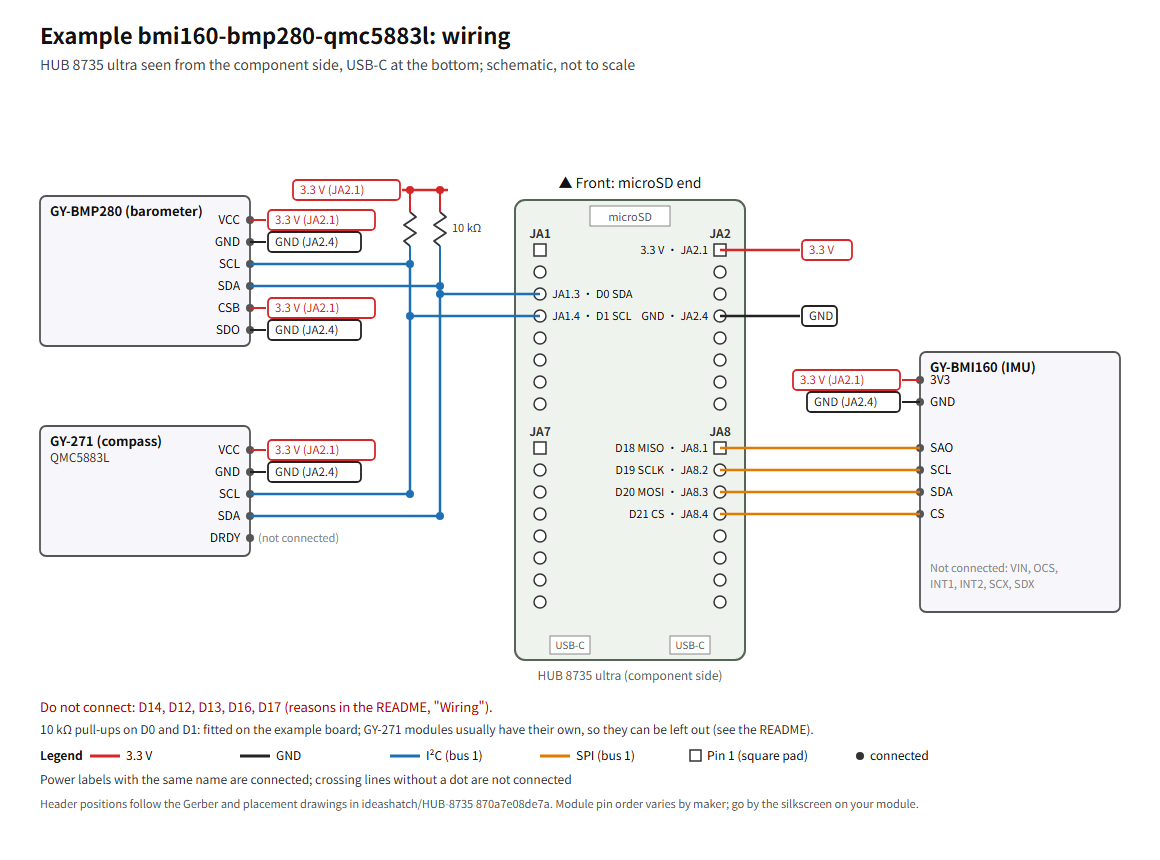
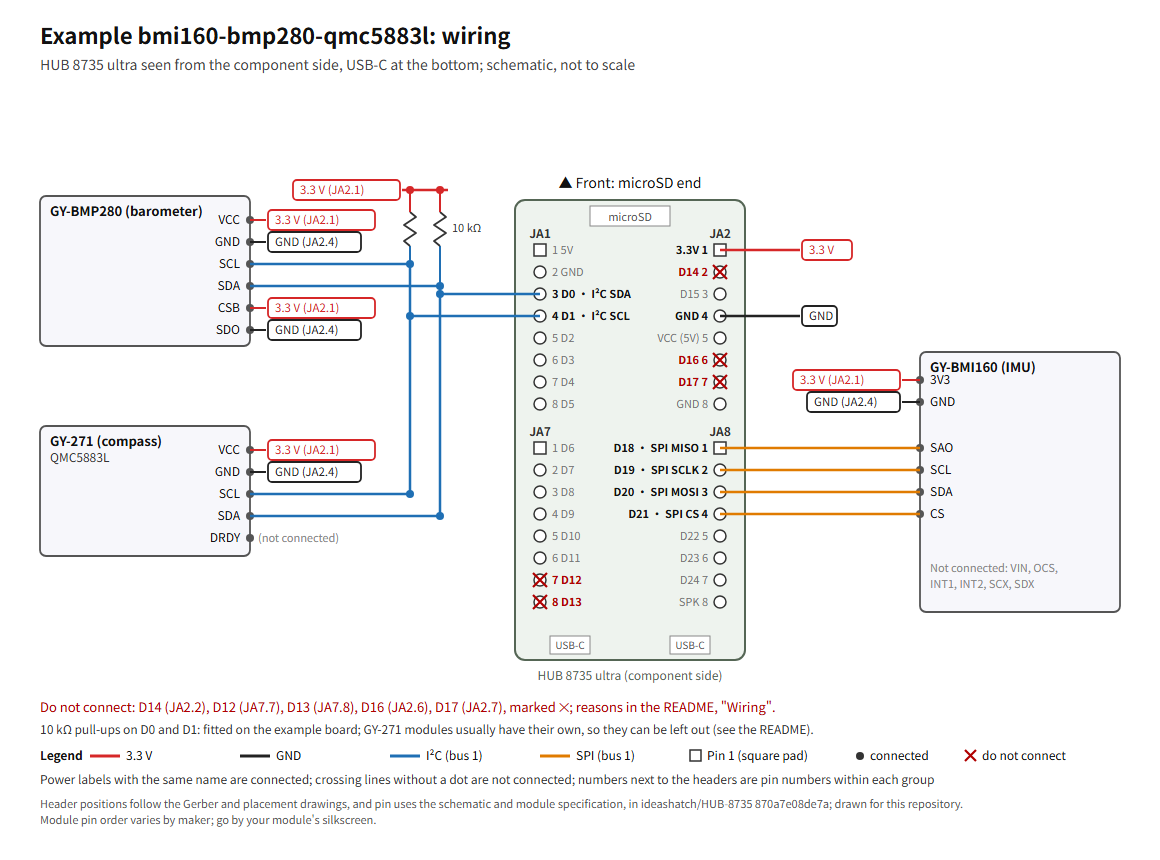
examples: mark the pins not to connect in the bmi160-bmp280-qmc5883l wiring
The wiring diagram now labels every header pin and marks D14 (JA2.2),
D12 (JA7.7), D13 (JA7.8), D16 (JA2.6) and D17 (JA2.7) with a cross,
matching the board header figure. The README points to that figure for
the full pin map, gives the positions of the pins not to connect, and
says where a 5 V BEC goes, the supply range in the module
specification, and why USB must stay unplugged while the power header
is powered. Both languages.

diff --git a/examples/bmi160-bmp280-qmc5883l/README.en.md b/examples/bmi160-bmp280-qmc5883l/README.en.md
@@ -21,7 +21,7 @@ The orientations match how the example board is placed: component side up, with 
 
 ## Wiring
 
-Header positions follow the Gerber and placement drawings the vendor published (`HUB 8735 ultra toolkit/Hardware/HUB 8735 ultra PCB Gerber File.7z` and `HUB 8735 ultra toolkit/Hardware/HUB 8735 ultra_PCB Placement_Top.pdf` in ideashatch/HUB-8735 `870a7e08de7a`): seen from the component side with the USB-C connectors at the bottom, there is one row on each side, each row has an upper and a lower group of 8 pins. The left row's upper group is JA1 and its lower group JA7; the right row's upper group is JA2 and its lower group JA8. Pin 1 of each group is the square pad at the microSD end, and the pin numbers increase towards the USB-C end. For the full header map (which D number each pin is, power and ground), see the [schematic](https://github.com/ideashatch/HUB-8735/blob/870a7e08de7a/HUB%208735%20ultra%20toolkit/Hardware/HUB%208735%20ultra%20Schematic.pdf) and the [module specification](https://github.com/ideashatch/HUB-8735/blob/870a7e08de7a/HUB%208735%20ultra%20toolkit/Hardware/HUB%208735%20ultra%20Module%20Specification_V01_20240508.pdf) the vendor published; both are marked CONFIDENTIAL, so nothing is quoted from them here.
+Header positions follow the Gerber and placement drawings the vendor published (`HUB 8735 ultra toolkit/Hardware/HUB 8735 ultra PCB Gerber File.7z` and `HUB 8735 ultra toolkit/Hardware/HUB 8735 ultra_PCB Placement_Top.pdf` in ideashatch/HUB-8735 `870a7e08de7a`): seen from the component side with the USB-C connectors at the bottom, there is one row on each side, each row has an upper and a lower group of 8 pins. The left row's upper group is JA1 and its lower group JA7; the right row's upper group is JA2 and its lower group JA8. Pin 1 of each group is the square pad at the microSD end, and the pin numbers increase towards the USB-C end. For the D number and use of every header pin, see this repository's [header figure](../../README.en.md#board-headers), compiled from the vendor's published [schematic](https://github.com/ideashatch/HUB-8735/blob/870a7e08de7a/HUB%208735%20ultra%20toolkit/Hardware/HUB%208735%20ultra%20Schematic.pdf) and [module specification](https://github.com/ideashatch/HUB-8735/blob/870a7e08de7a/HUB%208735%20ultra%20toolkit/Hardware/HUB%208735%20ultra%20Module%20Specification_V01_20240508.pdf).
 
 ![Wiring diagram: where the three modules connect on the HUB 8735 ultra headers](wiring.en.png)
 
@@ -53,8 +53,8 @@ The table below is how the example board is wired. Wired this way, a build of HA
 - Connect every module to 3.3 V, never to 5 V: the RTL8735B's I/O is 3.3 V. The GY-BMI160 is powered from its 3V3 pin, bypassing the regulator on the module.
 - You can also find 3.3 V and GND from the silkscreen next to the board's header pins.
 - I²C pull-ups: the example board has a 10 kΩ resistor from each of D0 and D1 to 3.3 V. GY-271 modules usually have their own pull-ups (inferred from the module sellers' specifications, not measured), so these two can be left out; if you later add other I²C modules with their own pull-ups, do not add them, or the total pull-up gets too strong.
-- Pins not to connect: D14, D12, D13, D16, D17. The level of D14 at reset decides whether the chip enters download mode, and shorting it to 3.3 V before a reset enters download mode (pages 17–18 of the vendor's Chinese user guide, `HUB 8735 ultra toolkit/Software/HUB 8735 ultra 開發板【Arduino 使用說明】_20240508.pdf` in the same commit); D12 is the upgrade button, D13 drives the white fill light on the board in our tests, and D16 and D17 are the LOG UART (see [Board types](https://github.com/rainwu0/ArduPilot-RTL8735B/blob/v0.1.1/libraries/AP_HAL_RTL8735B/README.en.md#board-types) in the HAL repository README).
-- For tests on a desk, USB power is enough. To run from a battery, go through a 5 V BEC to the board's 5 V input; for the pin and the allowed voltage, see the vendor's module specification (`HUB 8735 ultra toolkit/Hardware/HUB 8735 ultra Module Specification_V01_20240508.pdf` in the same commit). **While the power header is powered, do not plug in USB**; to use USB, first remove power from the header.
+- Pins not to connect: D14 (JA2.2), D12 (JA7.7), D13 (JA7.8), D16 (JA2.6), D17 (JA2.7), marked ✕ in the wiring diagram. The level of D14 at reset decides whether the chip enters download mode, and shorting it to the 3.3 V next to it (JA2.1) before a reset enters download mode (pages 17–18 of the vendor's Chinese user guide, `HUB 8735 ultra toolkit/Software/HUB 8735 ultra 開發板【Arduino 使用說明】_20240508.pdf` in the same commit), so take care not to bridge them when soldering; D12 is the upgrade button, D13 drives the white fill light on the board in our tests, and D16 and D17 are the LOG UART (see [Board types](https://github.com/rainwu0/ArduPilot-RTL8735B/blob/v0.1.1/libraries/AP_HAL_RTL8735B/README.en.md#board-types) in the HAL repository README).
+- For tests on a desk, USB power is enough. To run from a battery, go through a 5 V BEC to JA1.1 (5V) and JA1.2 (GND); page 4 of the vendor's module specification lists a supply voltage of 4.75–5.25 V. **While the power header is powered, do not plug in USB**: per the vendor's schematic, the 5 V of both USB-C connectors goes straight to the 5V header pin with nothing in between; to use USB, first remove power from the header.
 - Keep the compass away from power wires, the battery and magnetic parts.
 
 ## Build

diff --git a/examples/bmi160-bmp280-qmc5883l/README.md b/examples/bmi160-bmp280-qmc5883l/README.md
@@ -21,7 +21,7 @@ English: [README.en.md](README.en.md)
 
 ## 接線
 
-排針的位置依板商公開的 Gerber 與元件位置圖（ideashatch/HUB-8735 `870a7e08de7a` 的 `HUB 8735 ultra toolkit/Hardware/HUB 8735 ultra PCB Gerber File.7z`、`HUB 8735 ultra toolkit/Hardware/HUB 8735 ultra_PCB Placement_Top.pdf`）：從元件面看、USB-C 朝下，左右各一排，每排分上下兩組、每組 8 腳。左排上組是 JA1、下組是 JA7，右排上組是 JA2、下組是 JA8；每組的第 1 腳是方形焊墊，在靠 microSD 的那一端，腳號往 USB-C 端增加。完整的排針對照（每支腳是哪個 D 編號、電源與地）見板商公開的[原理圖](https://github.com/ideashatch/HUB-8735/blob/870a7e08de7a/HUB%208735%20ultra%20toolkit/Hardware/HUB%208735%20ultra%20Schematic.pdf)與[模組規格書](https://github.com/ideashatch/HUB-8735/blob/870a7e08de7a/HUB%208735%20ultra%20toolkit/Hardware/HUB%208735%20ultra%20Module%20Specification_V01_20240508.pdf)；這兩份標有 CONFIDENTIAL，這裡不摘錄內容。
+排針的位置依板商公開的 Gerber 與元件位置圖（ideashatch/HUB-8735 `870a7e08de7a` 的 `HUB 8735 ultra toolkit/Hardware/HUB 8735 ultra PCB Gerber File.7z`、`HUB 8735 ultra toolkit/Hardware/HUB 8735 ultra_PCB Placement_Top.pdf`）：從元件面看、USB-C 朝下，左右各一排，每排分上下兩組、每組 8 腳。左排上組是 JA1、下組是 JA7，右排上組是 JA2、下組是 JA8；每組的第 1 腳是方形焊墊，在靠 microSD 的那一端，腳號往 USB-C 端增加。每支排針的 D 編號與用途見本庫的[排針圖](../../README.md#開發板的排針)，依板商公開的[原理圖](https://github.com/ideashatch/HUB-8735/blob/870a7e08de7a/HUB%208735%20ultra%20toolkit/Hardware/HUB%208735%20ultra%20Schematic.pdf)與[模組規格書](https://github.com/ideashatch/HUB-8735/blob/870a7e08de7a/HUB%208735%20ultra%20toolkit/Hardware/HUB%208735%20ultra%20Module%20Specification_V01_20240508.pdf)整理。
 
 ![接線圖：三個模組接到 HUB 8735 ultra 排針的位置](wiring.png)
 
@@ -53,8 +53,8 @@ English: [README.en.md](README.en.md)
 - 模組一律接 3.3 V，不要接 5 V：RTL8735B 的 I/O 是 3.3 V。GY-BMI160 從 3V3 腳供電，不經模組上的穩壓器。
 - 3.3 V 與 GND 也可以照開發板排針旁的絲印找。
 - I²C 上拉：範例開發板在 D0、D1 各加了一顆 10 kΩ 電阻到 3.3 V。GY-271 模組多半自帶上拉（這是依模組賣場規格的推論，沒有量過），所以這兩顆可以不加；之後再接其他自帶上拉的 I²C 模組時，就不要再加，否則總上拉會太強。
-- 不要接的腳：D14、D12、D13、D16、D17。D14 在重置時的電位決定是否進燒錄模式，和 3.3 V 短路後重置就會進燒錄模式（板商中文使用說明 p.17–18：同一提交的 `HUB 8735 ultra toolkit/Software/HUB 8735 ultra 開發板【Arduino 使用說明】_20240508.pdf`）；D12 是 upgrade 鍵，D13 實測上控制板上的白色補光燈，D16、D17 是 LOG UART（見 HAL 庫 README 的[〈板型〉](https://github.com/rainwu0/ArduPilot-RTL8735B/blob/v0.1.1/libraries/AP_HAL_RTL8735B/README.md#板型)）。
-- 桌上測試用 USB 供電就好。要改用電池時，經 5 V BEC 接到開發板的 5 V 輸入；腳位和容許的電壓見板商的模組規格書（同一提交的 `HUB 8735 ultra toolkit/Hardware/HUB 8735 ultra Module Specification_V01_20240508.pdf`）。**電源排針接著電時，不要再插 USB**；要用 USB，先拔掉排針的電源。
+- 不要接的腳：D14（JA2.2）、D12（JA7.7）、D13（JA7.8）、D16（JA2.6）、D17（JA2.7），接線圖上標 ✕。D14 在重置時的電位決定是否進燒錄模式，和旁邊的 3.3 V（JA2.1）短路後重置就會進燒錄模式（板商中文使用說明 p.17–18：同一提交的 `HUB 8735 ultra toolkit/Software/HUB 8735 ultra 開發板【Arduino 使用說明】_20240508.pdf`），焊接時小心不要碰在一起；D12 是 upgrade 鍵，D13 實測上控制板上的白色補光燈，D16、D17 是 LOG UART（見 HAL 庫 README 的[〈板型〉](https://github.com/rainwu0/ArduPilot-RTL8735B/blob/v0.1.1/libraries/AP_HAL_RTL8735B/README.md#板型)）。
+- 桌上測試用 USB 供電就好。要改用電池時，經 5 V BEC 接到 JA1.1（5V）與 JA1.2（GND）；板商模組規格書 p.4 列的電源電壓是 4.75–5.25 V。**電源排針接著電時，不要再插 USB**：依板商原理圖，兩個 USB-C 的 5 V 直接接到排針的 5V，中間沒有隔離；要用 USB，先拔掉排針的電源。
 - 羅盤要遠離電源線、電池與磁性零件。
 
 ## 建置
